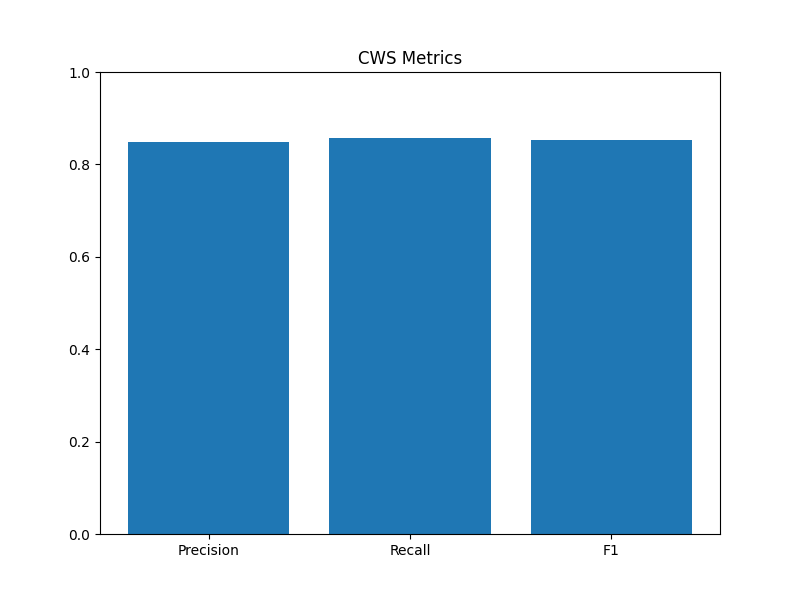
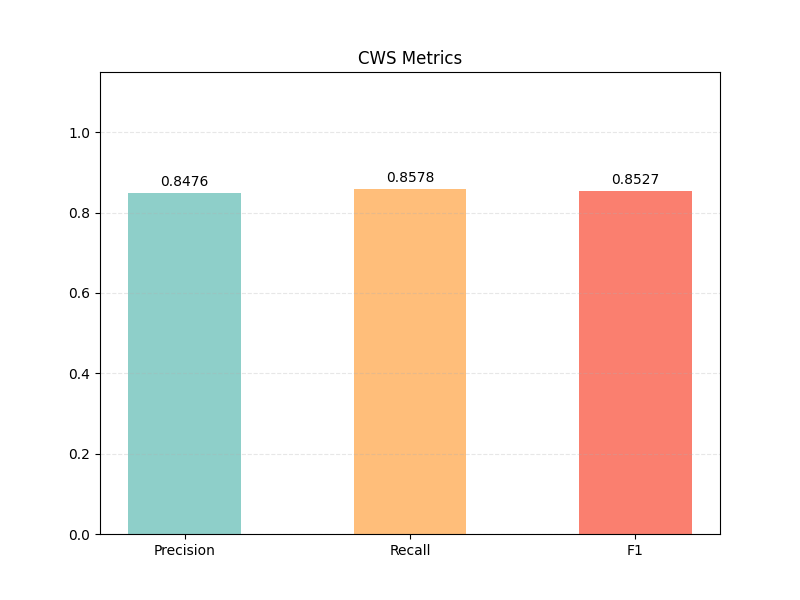
优化画图

diff --git a/main.py b/main.py
@@ -70,11 +70,23 @@ def load_pos_data(file_path):
 
 load_ner_data = load_pos_data
 
-def plot_metrics(p, r, f1, title, filename):
+def plot_metrics(names, values, title, filename):
     plt.figure(figsize=(8, 6))
-    plt.bar(['Precision', 'Recall', 'F1'], [p, r, f1])
+    colors = ['#8ecfc9', '#ffbe7a', '#fa7f6f', '#82b0d2']
+    
+    bar_colors = colors[:len(names)] if len(names) <= len(colors) else colors * (len(names) // len(colors) + 1)
+    
+    bars = plt.bar(names, values, color=bar_colors, width=0.5)
     plt.title(title)
-    plt.ylim(0, 1.0)
+    plt.ylim(0, 1.15)
+    plt.grid(axis='y', linestyle='--', alpha=0.3)
+    
+    for bar in bars:
+        height = bar.get_height()
+        plt.text(bar.get_x() + bar.get_width()/2., height + 0.01,
+                 f'{height:.4f}',
+                 ha='center', va='bottom', fontsize=10)
+                 
     plt.savefig(f"{IMG_DIR}/{filename}")
     print(f"图保存到了 {filename}")
     plt.close()
@@ -117,7 +129,7 @@ def evaluate_cws(nlp, data):
     f1 = 2 * p * r / (p + r) if (p + r) > 0 else 0
     
     print(f"分词结果: P={p:.4f}, R={r:.4f}, F1={f1:.4f}")
-    plot_metrics(p, r, f1, 'CWS Metrics', 'cws.png')
+    plot_metrics(['Precision', 'Recall', 'F1'], [p, r, f1], 'CWS Metrics', 'cws.png')
 
 def evaluate_pos(nlp, data):
     print("正在评估词性标注...")
@@ -149,6 +161,7 @@ def evaluate_pos(nlp, data):
             
     acc = correct / total if total > 0 else 0
     print(f"POS 准确率: {acc:.4f}")
+    plot_metrics(['Accuracy'], [acc], 'POS Accuracy', 'pos.png')
 
 def evaluate_ner(nlp, data):
     print("正在评估命名实体识别...")
@@ -208,7 +221,7 @@ def evaluate_ner(nlp, data):
         print(f"{k:<10} {p:<10.4f} {r:<10.4f} {f1:<10.4f}")
     print("="*45 + "\n")
     
-    plot_metrics(final_p, final_r, final_f1, 'NER Metrics', 'ner.png')
+    plot_metrics(['Precision', 'Recall', 'F1'], [final_p, final_r, final_f1], 'NER Metrics', 'ner.png')
 
 def interactive_demo(nlp):
     print("\n" + "="*30)
